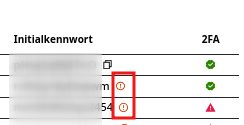
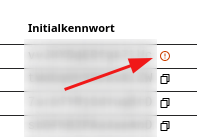
geändert:       wenom/benutzerhandbuch/anleitung_lehrkraefte.md 	neue Datei:     "wenom/benutzerhandbuch/graphics/datenzur\303\274cksetzen.png" 	neue Datei:     wenom/benutzerhandbuch/graphics/erstanmeldung.png 	neue Datei:     wenom/benutzerhandbuch/graphics/gesperrteLerngruppen.png 	geändert:     

diff --git a/wenom/benutzerhandbuch/anleitung_lehrkraefte.md b/wenom/benutzerhandbuch/anleitung_lehrkraefte.md
@@ -6,25 +6,29 @@
 + Zum Anmelden gilt die **dienstliche Emailadresse** als **Benutzername**.
 + Als Kennwort ist das **Initialkennwort** zu verwenden, welches Ihnen von der schulischen Administration mitgeteilt wurde.
 
-
 ![Das Anmeldefenster zum WebNotenManager](graphics/WenomAnmeldung.png "Loggen Sie sich mit Ihrer dienstlichen Emailadresse und dem erhlatenen Passwort beim WeNoM ein.")
 
-## Zwei-Faktor-Authentisierung 
+Nach der ersten Anmeldung am System verliert das Initialkennwort die Güligkeit und es wird **einmalig** das neue Passwort angezeigt.
+
+![Erstanmeldung](./graphics/erstanmeldung.png)
+
+Bitte nie die Passwörter im Browser speichern!  
+
+Notieren Sie sich das Passwort zum Beispiel in Ihrem Passwortmanager.
+
+## Zwei-Faktor-Authentisierung
 
 ### Einrichtung zweiter Faktor
 
-Haben Sie noch keine Zwei-Faktor-Authentisierung? 
+Haben Sie noch keine Zwei-Faktor-Authentisierung?
 
 Dann finden Sie hier den Artikel: [Einrichtung Zwei-Faktor-Authentisierung](einrichtungZweiterFaktor.md)
 
 ### Login mit aktivierter Zwei-Faktor-Authentifizierung
- 
+
 Ist seitens der schulfachlichen Administration der zweite Faktor verpflichtend eingeschaltet, so erscheint nach der ersten Anmeldemaske  zusätzlich die Eingabemaske für den 6-stelligen, zeitlich begrenzt gültigen zweiten Faktor.
 
-
 ![Zweiten Faktor Eingeben](./graphics/2fa_eingeben.png)
-
-
 
 ## Grundsätzliche Tabelleneinstellungen
 
@@ -38,21 +42,19 @@ Ist seitens der schulfachlichen Administration der zweite Faktor verpflichtend e
 
 ## Ansichten der verschiedenen Benutzergruppen
 
-Nach dem Login öffnet sich der Leistungsdatenreiter mit der vorausgewählten ersten Lerngruppe der Lehrkraft. 
+Nach dem Login öffnet sich der Leistungsdatenreiter mit der vorausgewählten ersten Lerngruppe der Lehrkraft.
 
 Je nach Rolle der Lehrkraft kann die Ansicht variieren. Es wird zwischen den folgenden Möglichkeiten unterschieden:
 
-* Die **Fachlehrkraft** sieht nur die Leistungsdaten ihrer Klassenunterrichte und Kurse.
-* Die **Klassenleitung** sieht weitere Daten wie Zeugnisbemerkungen.
-* Die **Schulleitung** oder eine  **Abteilungsleitung/Stufenkoordination** sieht wie die Klassenleitung alle Daten der Schule oder Abteilung.
++ Die **Fachlehrkraft** sieht nur die Leistungsdaten ihrer Klassenunterrichte und Kurse.
++ Die **Klassenleitung** sieht weitere Daten wie Zeugnisbemerkungen.
++ Die **Schulleitung** oder eine  **Abteilungsleitung/Stufenkoordination** sieht wie die Klassenleitung alle Daten der Schule oder Abteilung.
 
 ## Eintragungen der Fachlehrkraft
-
 
 ### Leistungsdaten
 
 ![Übersichtstabelle der Leistungsdaten](graphics/WenomLeistungsdaten.png "Geben Sie Noten, Mahnungen und Fehlstunden ein.")
-
 
 #### Noten eintragen
 
@@ -78,7 +80,6 @@ Bei einer Schülerin neu gesetzte Mahnungen sind am gesetzten Haken und der *rot
 Werden die Noten und Mahnungen aus WeNoM in den SVWS-Webclient übertragen und dort verarbeitet, wird der Zustand der Mahnung auf *ausgesprochen* beziehungsweise *versendet* geändert. Dies bedeutet nach einer weiteren Rück-Synchronisation mit WeNoM, dass der Status hier auf *angehakt* und *inaktiv* wechselt.
 :::
 
-
 #### Fachbezogene Fehlstunden eintragen
 
 Im Bereich **Fehlstunden** können *fachbezogene Fehlstunden* (FS) als ganze Zahl eingegeben werden. Die Anzahl der *unentschuldigten Fehlstunden* (FSU) wird in der benachbarten Spalte eingetragen und darf die Anzahl der gesamten Fehlstunden nicht übertreffen.
@@ -93,8 +94,8 @@ Sie können im Anschluss Schüler der entsprechenden Lerngruppe auf der linken S
 
 ![Auswahlliste der fachbezogenen Floskeln](graphics/WenomFachbezBem.png "Auswahlliste der fachbezogenen Floskeln.")
 
-
 ### Teilleistungen
+
 ![Übersicht der Teilleistungen zur Noteneingabe](graphics/WenomTeilleistungen.png "Vergeben Sie Noten für von der Schule definierte Teilleistungen.")
 
 Als **Teilleistungen** werden Unternoten eines Faches bezeichnet. Dies sind zum Beispiel Noten für *Sonstige Mitarbeit*, *Klausuren und Klassenarbeiten* oder *ZP10-Prüfungsleistungen*.
@@ -103,9 +104,15 @@ Als **Teilleistungen** werden Unternoten eines Faches bezeichnet. Dies sind zum 
 Die Schule kann Teilleistungen nach eigener Maßgabe definieren, daher können die Teilleistungen nach Schulform und Schule in ihrer Anzahl und in ihrer Bezeichnung variieren. Schulen verwenden eventuell keine Teilleistungen.
 :::
 
-Im Reiter Teilleistungen findet man eine Übersicht über alle in dieser Lerngruppe durch den zentralen SVWS-Server vorgegebenen Teilleistungsarten. 
+Im Reiter Teilleistungen findet man eine Übersicht über alle in dieser Lerngruppe durch den zentralen SVWS-Server vorgegebenen Teilleistungsarten.
 
-Alternativ zum Leistungsdatenreiter können hier auch die Quartals- und Endnoten eingetragen werden. 
+Alternativ zum Leistungsdatenreiter können hier auch die Quartals- und Endnoten eingetragen werden.
+
+## Gesperrte Lerngruppen
+
+Seitens der schulischen Administration können einzelne Lerngruppe für die Eingaben ganz oder auch nur teilweise gesperrt werden.
+
+![gesperrte Lerngruppen](./graphics/gesperrteLerngruppen.png)
 
 ## Eintragungen der Klassenleitung
 
@@ -120,14 +127,13 @@ Die Erfassung von Gesamtfehlstunden gilt für den Fall, dass sich die Schule nic
 ### ASV, AUE und ZB
 
 Unter den Spalten
-* ASV - Arbeits- und Sozialverhalten,
-* AUE - Außerunterrichtliches Engagement und 
-* ZB - Zeugnisbemerkung
++ ASV - Arbeits- und Sozialverhalten,
++ AUE - Außerunterrichtliches Engagement und
++ ZB - Zeugnisbemerkung
 
 können jeweils in diesen unterschiedlichen Kontexten Bemerkungen eingetragen werden.
 
 Ebenso wie bei den fachbezogenen Bemerkungen kann hier auf vorformulierte Floskeln zurückgegriffen werden. Zum Bearbeiten des Textes öffnet sich ein Fenster, in dem Floskeln ausgewählt oder manuell eingetragen werden können.
- 
 
 ## Tätigkeiten der Schulleitung/Abteilungsleitung
 

diff --git a/wenom/benutzerhandbuch/schulische_administration.md b/wenom/benutzerhandbuch/schulische_administration.md
@@ -18,16 +18,15 @@ Beim Synchronisieren werden ebenfalls die Benutzer abgeglichen, so dass es für 
 
 In besonderen Fällen kann nur hoch- beziehungsweise heruntergeladen werden, so dass kein beidseitiger Abgleich über die Datumsstempel stattfindet.
 
-## Zurücksetzen / Daten löschen
+## Zurücksetzen, Daten löschen
 
-Über den Punkt **Zurücksetzen** bietet sich der schulfachlichen Administration die Möglichkeit,
+Über den Punkt **Synchronisation** bietet sich der schulfachlichen Administration die Möglichkeit Daten zu löschen.
 
-+ **Daten** zurücksetzen
-+ **Daten und Benutzer** zurücksetzen.
+![Daten zurücksetzen](./graphics/datenzurücksetzen.png)
 
-Im normalen, halbjährlichen Schulabschnittswechsel können mit dem Punkt `Daten zurücksetzen` alte Zeugnisdaten zur Sicherheit aus dem, über das Internet erreichbare, System genommen werden. Zum einen sind diese Daten dann überhaupt nicht mehr in WeNoM abrufbar und zum anderen kann ein neuer Lernabschnitt auf dem WeNoM sauber begonnen werden.
+Im normalen, halbjährlichen Schulabschnittswechsel können mit dem Punkt `Daten entfernen` alte Zeugnisdaten zur Sicherheit aus dem, über das Internet erreichbare, System genommen werden. Zum einen sind diese Daten dann überhaupt nicht mehr in WeNoM abrufbar und zum anderen kann ein neuer Lernabschnitt auf dem WeNoM sauber begonnen werden.
 
-Falls ein installierter Webnotenmanager vollständig aufgegeben oder vollständig neu initialisiert werden soll und der schulfachliche Administrator somit die Löschung aller Daten auf dem WeNoM-Server durchführen muss, kann dies über den Schalter `Daten und Benutzer zurücksetzen` erreicht werden.
+Falls ein installierter Webnotenmanager vollständig aufgegeben oder vollständig neu initialisiert werden soll und der schulfachliche Administrator somit die Löschung aller Daten auf dem WeNoM-Server durchführen muss, kann dies über den Schalter `Daten, Konfiguration und Benutzer entfernen` erreicht werden.
 
 ### Verbindungsdaten löschen oder erneuern
 
@@ -45,7 +44,6 @@ Die Möglichkeit zur Verbindung kann gegebenenfalls wiederhergestellt werden, fa
 
 Die Lehrkräfte erhalten von der schulfachlichen Administration ein *Initialkennwort*. In Kombination mit der *Dienstlichen Emailadresse* als Benutzername ist dieses Kennwort der individuelle Erstzugang zum WebNotenManager.
 
-
 ![Lehrer-Zugangsdaten](./graphics/lehrer-zugangsdaten.png "Im SVWS-Webclient sind die Initialkennworte hinterlegt.")
 
 Ungültige oder uneindeutige Email-Einträge in den Dienstmails werden als Fehler markiert und nicht zum WeNoM-Server übertragen.
@@ -54,11 +52,13 @@ Ebenso werden ausschließlich Dienstmailadressen und keine privaten Email-Adress
 
 ### Zurücksetzten auf das Initialkennwort
 
-Die Lehrkraft kann ein eigenes, der schulischen Administration unbekanntes Passwort setzen. Ist eine eigenes Passwort gesetzt worden, kann dies die schulische Administration an der roten Markierung neben dem Initialkennwort erkennen. 
+Die Lehrkraft erhält beim initialen Login ein neu generiertes und dem schulischen Administration unbekanntes Passwort vom Wenom-Server. Ist dieser Intitialisierende Vorgang abgeschlossen und wurde mit dem SVWS-Server erneut synchronisiert, wird dies mit einer roten Markierung neben dem Initialkennwort erkennbar gemacht.
 
 ![Zurücksetzen der Initialpasswörter](./graphics/initialpw_zuruecksetzen.png)
 
 Die schulische Administration kann mir dem Button *Passwort zurücksetzen* individuell für ausgesuchte Lehrkräfte oder auch für alle Lehrkräfte das Passwort auf das Initialkennwort zurücksetzen.
+
+![Zurücksetzen der Initialpasswörter](./graphics/initialpw_zuruecksetzen2.png)
 
 ### Einrichten einer Zwei-Faktor-Authentifizierung
 
